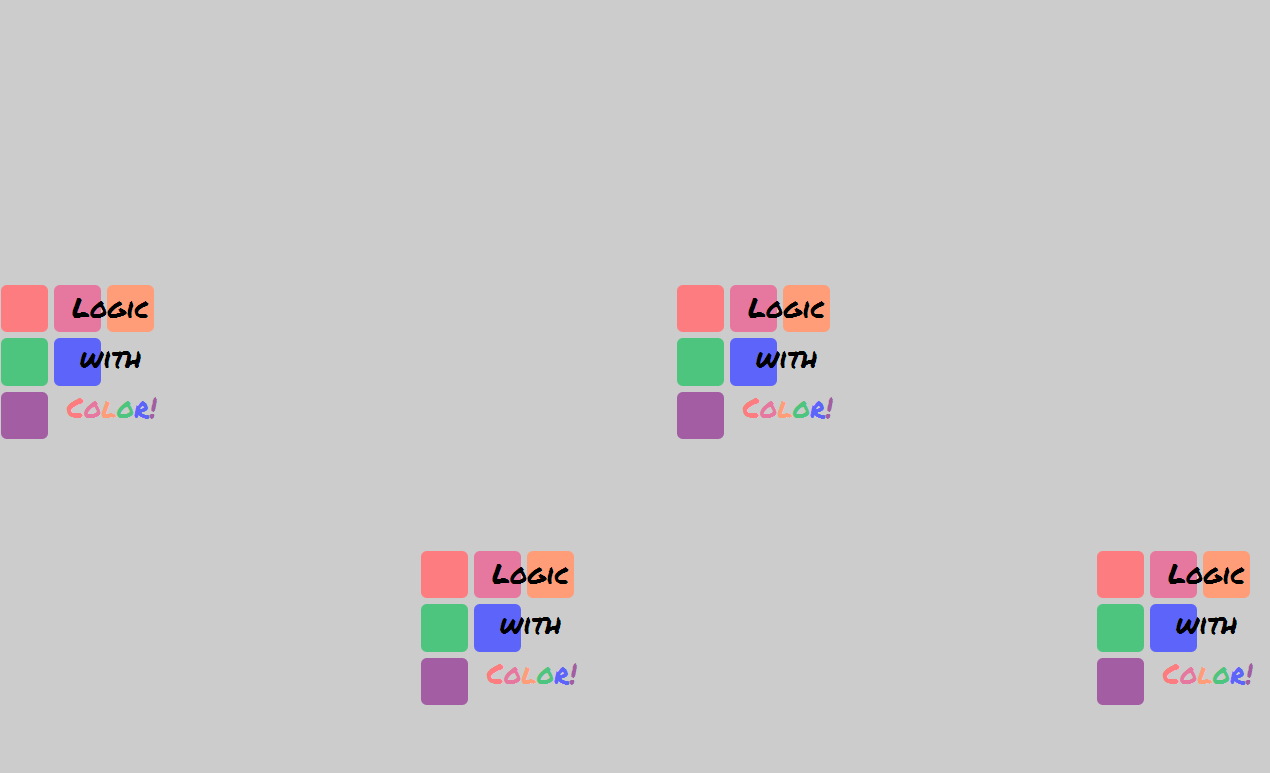
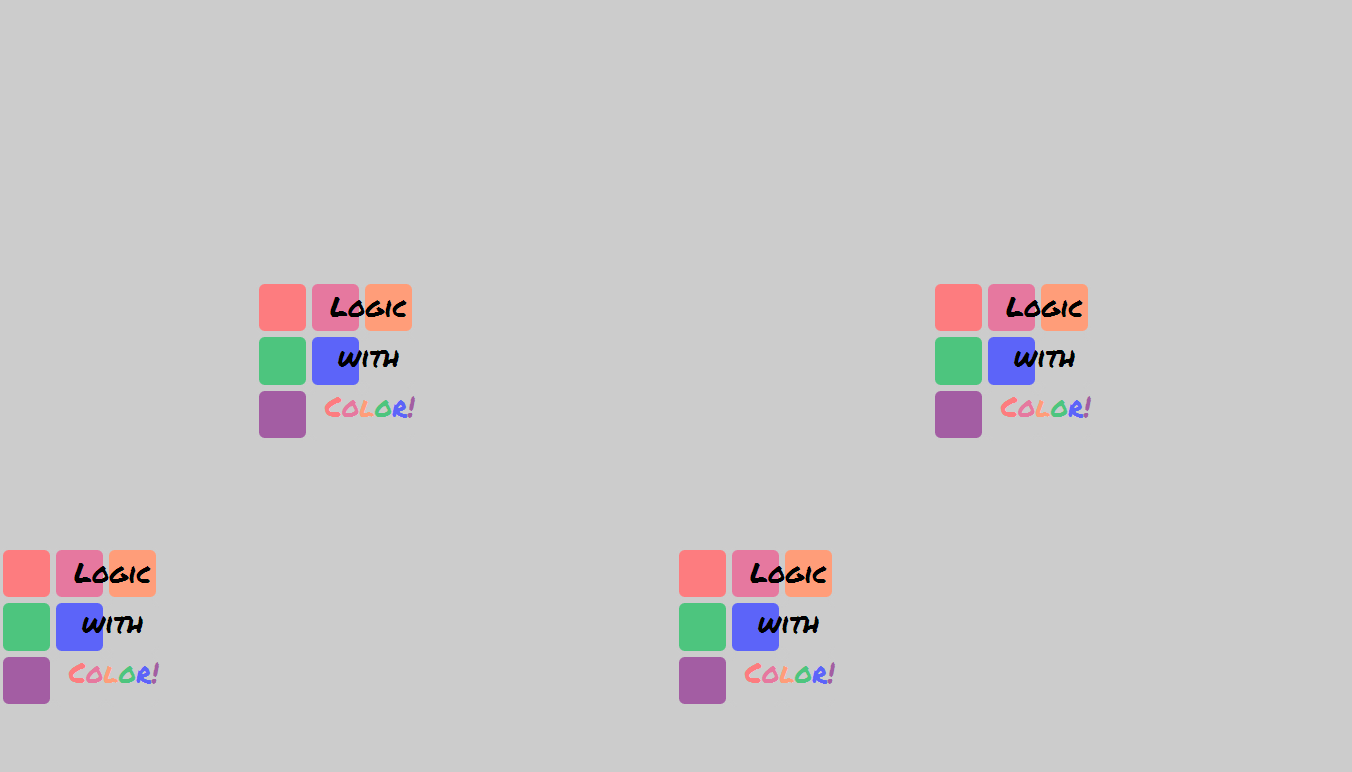
Add files via upload

diff --git a/logicJson.js b/logicJson.js
@@ -975,12 +975,13 @@ $(document).ready( function () {
   $("#play").click( function () {
   	$("#homepage").delay(400).fadeOut("slow");
   	$("#puzzleGallery").delay(800).fadeIn(2000);
-  	$("body").scrollTop(0);
+  	$("body").scrollTop(0).css("background-image", "url(backgroundPlain.png)");
   });
 //back to main menu
   $("#menu").click( function () {
   	$("#puzzleGallery").fadeOut("slow");
   	$("#homepage").delay(800).fadeIn(1800);
+  	$("body").scrollTop(0).css("background-image", "url(background.png)");
   });
 //when the play button is clicked, reset all homepage buttons to their original size then navigate to the puzzle gallery
 $("#play").click( function () {

diff --git a/logicPuzzles.css b/logicPuzzles.css
@@ -19,7 +19,7 @@ body {
 
 @keyframes animatedBackground {
 	from { background-position: 0 0; }
-	to { background-position: 674px 0; }
+	to { background-position: 676px 0; }
 }
 
 /*pointer*/
@@ -1072,6 +1072,7 @@ body {
 @media (max-width: 1280px) {
 	#puzzleStory.puzzle {
 	    top: 164px;
+	    left: -6px;
 	}
 }
 
